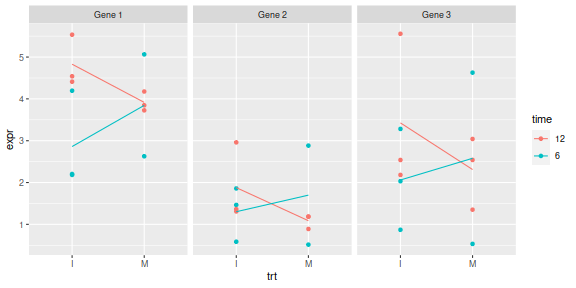
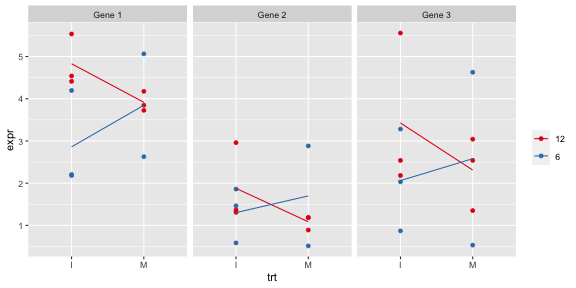
2.1-tidyr

diff --git a/slides/2.1-tidyr/index.html b/slides/2.1-tidyr/index.html
@@ -3,8 +3,8 @@
   <head>
     <title>Tidying your data</title>
     <meta charset="utf-8" />
-    <meta name="author" content="Di Cook (dicook@monash.edu, @visnut)   Heike Hofmann (heike.hofmann@gmail.com, @heike_hh)   Susan VanderPlas (susan.vanderplas@unl.edu, @srvanderplas)" />
-    <script src="index_files/header-attrs-2.9/header-attrs.js"></script>
+    <meta name="author" content="Di Cook (dicook@monash.edu, @visnut)   Heike Hofmann (heike.hofmann@gmail.com, @heike_hh)" />
+    <script src="index_files/header-attrs-2.14/header-attrs.js"></script>
     <link href="index_files/remark-css-0.0.1/default.css" rel="stylesheet" />
     <link href="index_files/countdown-0.3.5/countdown.css" rel="stylesheet" />
     <script src="index_files/countdown-0.3.5/countdown.js"></script>
@@ -14,10 +14,18 @@
     <textarea id="source">
 class: center, middle, inverse, title-slide
 
+.title[
 # Tidying your data
-## SISBID 2021 <br> <a href="https://github.com/dicook/SISBID" class="uri">https://github.com/dicook/SISBID</a>
-### Di Cook (<a href="mailto:dicook@monash.edu" class="email">dicook@monash.edu</a>, <span class="citation">@visnut</span>) <br> Heike Hofmann (<a href="mailto:heike.hofmann@gmail.com" class="email">heike.hofmann@gmail.com</a>, <span class="citation">@heike_hh</span>) <br> Susan VanderPlas (<a href="mailto:susan.vanderplas@unl.edu" class="email">susan.vanderplas@unl.edu</a>, <span class="citation">@srvanderplas</span>)
-### 07/21-23/2021
+]
+.subtitle[
+## SISBID 2022 <br> <a href="https://github.com/dicook/SISBID" class="uri">https://github.com/dicook/SISBID</a>
+]
+.author[
+### Di Cook (<a href="mailto:dicook@monash.edu" class="email">dicook@monash.edu</a>, <span class="citation">@visnut</span>) <br> Heike Hofmann (<a href="mailto:heike.hofmann@gmail.com" class="email">heike.hofmann@gmail.com</a>, <span class="citation">@heike_hh</span>)
+]
+.date[
+### 07/27-29/2022
+]
 
 ---
 
@@ -57,15 +65,24 @@ tb %&gt;%                                  # first we get the tb data
   arrange(desc(cases))                  # then we sort countries to show highest number new cases first
 ```
 
+Note that the new base R pipe `|&gt;` can mostly substitute for the magrittr pipe. A good explanation can be found [here](https://towardsdatascience.com/understanding-the-native-r-pipe-98dea6d8b61b).
+
 ---
+.pull-left[
+&lt;img src="https://github.com/allisonhorst/stats-illustrations/raw/master/rstats-artwork/tidydata_2.jpg" width="100%"&gt;
+
+Artist: [Allison Horst](https://github.com/allisonhorst/stats-illustrations)
+
+]
+
+.pull-right[
 # What is **tidy data**? 
 
 - What do we expect tidy data to look like?
 - Couple of exercises to look closer at what we find in practice 
 
-&lt;img src="https://github.com/allisonhorst/stats-illustrations/raw/master/rstats-artwork/tidydata_2.jpg" width="500"&gt;
+]
 
-Artist: [Allison Horst](https://github.com/allisonhorst/stats-illustrations)
 ---
 class: inverse middle 
 # Your turn 1
@@ -74,7 +91,7 @@ What are the variables?
 
 
 ```
-# A tibble: 6 x 4
+# A tibble: 6 × 4
   Inst                     AvNumPubs AvNumCits PctCompletion
   &lt;chr&gt;                        &lt;dbl&gt;     &lt;dbl&gt;         &lt;dbl&gt;
 1 ARIZONA STATE UNIVERSITY      0.9       1.57          31.7
@@ -95,14 +112,16 @@ What's in the column names of this data? What are the experimental units? What a
 
 
 ```
-# A tibble: 3 x 12
-  id     `WI-6.R1` `WI-6.R2` `WI-6.R4` `WM-6.R1` `WM-6.R2` `WI-12.R1`
-  &lt;chr&gt;      &lt;dbl&gt;     &lt;dbl&gt;     &lt;dbl&gt;     &lt;dbl&gt;     &lt;dbl&gt;      &lt;dbl&gt;
-1 Gene 1      2.18     2.20       4.20     2.63       5.06       4.54
-2 Gene 2      1.46     0.585      1.86     0.515      2.88       1.36
-3 Gene 3      2.03     0.870      3.28     0.533      4.63       2.18
-# … with 5 more variables: WI-12.R2 &lt;dbl&gt;, WI-12.R4 &lt;dbl&gt;,
-#   WM-12.R1 &lt;dbl&gt;, WM-12.R2 &lt;dbl&gt;, WM-12.R4 &lt;dbl&gt;
+# A tibble: 3 × 12
+  id     WI-6.…¹ WI-6.…² WI-6.…³ WM-6.…⁴ WM-6.…⁵ WI-12…⁶ WI-12…⁷ WI-12…⁸ WM-12…⁹
+  &lt;chr&gt;    &lt;dbl&gt;   &lt;dbl&gt;   &lt;dbl&gt;   &lt;dbl&gt;   &lt;dbl&gt;   &lt;dbl&gt;   &lt;dbl&gt;   &lt;dbl&gt;   &lt;dbl&gt;
+1 Gene 1    2.18   2.20     4.20   2.63     5.06    4.54    5.53    4.41    3.85
+2 Gene 2    1.46   0.585    1.86   0.515    2.88    1.36    2.96    1.31    1.18
+3 Gene 3    2.03   0.870    3.28   0.533    4.63    2.18    5.56    2.54    2.54
+# … with 2 more variables: `WM-12.R2` &lt;dbl&gt;, `WM-12.R4` &lt;dbl&gt;, and abbreviated
+#   variable names ¹`WI-6.R1`, ²`WI-6.R2`, ³`WI-6.R4`, ⁴`WM-6.R1`, ⁵`WM-6.R2`,
+#   ⁶`WI-12.R1`, ⁷`WI-12.R2`, ⁸`WI-12.R4`, ⁹`WM-12.R1`
+# ℹ Use `colnames()` to see all variable names
 ```
 
 
@@ -115,20 +134,20 @@ What are the variables? What are the records?
 
 
 ```
-           V1   V2 V3   V4  V5  V9 V13 V17 V21 V25 V29 V33 V37 V41 V45
-1 ASN00086282 1970  7 TMAX 141 124 113 123 148 149 139 153 123 108 119
-2 ASN00086282 1970  7 TMIN  80  63  36  57  69  47  84  78  49  42  48
-3 ASN00086282 1970  7 PRCP   3  30   0   0  36   3   0   0  10  23   3
-4 ASN00086282 1970  8 TMAX 145 128 150 122 109 112 116 142 166 127 117
-5 ASN00086282 1970  8 TMIN  50  61  75  67  41  51  48  -7  56  62  47
-6 ASN00086282 1970  8 PRCP   0  66   0  53  13   3   8   0   0   0   3
-  V49 V53 V57 V61 V65 V69 V73 V77 V81 V85 V89 V93 V97
-1 112 126 112 115 133 134 126 104 143 141 134 117 142
-2  56  51  36  44  39  40  58  15  33  51  74  39  66
-3   0   5   0   0   0   0   0   8   0  18   0   0   0
-4 127 159 143 114  65 113 125 129 147 161 168 178 161
-5  33  67  84  11  41  18  50  22  28  74  94  73  88
-6   5   0   0  64   3  99  36   8   0   0   0   8  36
+           V1   V2 V3   V4  V5  V9 V13 V17 V21 V25 V29 V33 V37 V41 V45 V49 V53
+1 ASN00086282 1970  7 TMAX 141 124 113 123 148 149 139 153 123 108 119 112 126
+2 ASN00086282 1970  7 TMIN  80  63  36  57  69  47  84  78  49  42  48  56  51
+3 ASN00086282 1970  7 PRCP   3  30   0   0  36   3   0   0  10  23   3   0   5
+4 ASN00086282 1970  8 TMAX 145 128 150 122 109 112 116 142 166 127 117 127 159
+5 ASN00086282 1970  8 TMIN  50  61  75  67  41  51  48  -7  56  62  47  33  67
+6 ASN00086282 1970  8 PRCP   0  66   0  53  13   3   8   0   0   0   3   5   0
+  V57 V61 V65 V69 V73 V77 V81 V85 V89 V93 V97
+1 112 115 133 134 126 104 143 141 134 117 142
+2  36  44  39  40  58  15  33  51  74  39  66
+3   0   0   0   0   0   8   0  18   0   0   0
+4 143 114  65 113 125 129 147 161 168 178 161
+5  84  11  41  18  50  22  28  74  94  73  88
+6   0  64   3  99  36   8   0   0   0   8  36
 ```
 
 
@@ -141,18 +160,19 @@ What are the variables? What are the experimental units?
 
 
 ```
-# A tibble: 6 x 22
-  iso2   year  m_04 m_514 m_014 m_1524 m_2534 m_3544 m_4554 m_5564  m_65
-  &lt;chr&gt; &lt;dbl&gt; &lt;dbl&gt; &lt;dbl&gt; &lt;dbl&gt;  &lt;dbl&gt;  &lt;dbl&gt;  &lt;dbl&gt;  &lt;dbl&gt;  &lt;dbl&gt; &lt;dbl&gt;
-1 ZW     2003    NA    NA   133    874   3048   2228    981    367   205
-2 ZW     2004    NA    NA   187    833   2908   2298   1056    366   198
-3 ZW     2005    NA    NA   210    837   2264   1855    762    295   656
-4 ZW     2006    NA    NA   215    736   2391   1939    896    348   199
-5 ZW     2007     6   132   138    500   3693      0    716    292   153
-6 ZW     2008    NA    NA   127    614      0   3316    704    263   185
-# … with 11 more variables: m_u &lt;dbl&gt;, f_04 &lt;dbl&gt;, f_514 &lt;dbl&gt;,
-#   f_014 &lt;dbl&gt;, f_1524 &lt;dbl&gt;, f_2534 &lt;dbl&gt;, f_3544 &lt;dbl&gt;, f_4554 &lt;dbl&gt;,
-#   f_5564 &lt;dbl&gt;, f_65 &lt;dbl&gt;, f_u &lt;dbl&gt;
+# A tibble: 6 × 22
+  iso2   year  m_04 m_514 m_014 m_1524 m_2534 m_3544 m_4554 m_5564  m_65   m_u
+  &lt;chr&gt; &lt;dbl&gt; &lt;dbl&gt; &lt;dbl&gt; &lt;dbl&gt;  &lt;dbl&gt;  &lt;dbl&gt;  &lt;dbl&gt;  &lt;dbl&gt;  &lt;dbl&gt; &lt;dbl&gt; &lt;dbl&gt;
+1 ZW     2003    NA    NA   133    874   3048   2228    981    367   205    NA
+2 ZW     2004    NA    NA   187    833   2908   2298   1056    366   198    NA
+3 ZW     2005    NA    NA   210    837   2264   1855    762    295   656    NA
+4 ZW     2006    NA    NA   215    736   2391   1939    896    348   199    NA
+5 ZW     2007     6   132   138    500   3693      0    716    292   153    NA
+6 ZW     2008    NA    NA   127    614      0   3316    704    263   185     0
+# … with 10 more variables: f_04 &lt;dbl&gt;, f_514 &lt;dbl&gt;, f_014 &lt;dbl&gt;, f_1524 &lt;dbl&gt;,
+#   f_2534 &lt;dbl&gt;, f_3544 &lt;dbl&gt;, f_4554 &lt;dbl&gt;, f_5564 &lt;dbl&gt;, f_65 &lt;dbl&gt;,
+#   f_u &lt;dbl&gt;
+# ℹ Use `colnames()` to see all variable names
 ```
 
 ---
@@ -179,7 +199,7 @@ class: inverse middle
 
 
 ```
-# A tibble: 4 x 9
+# A tibble: 4 × 9
   time  treatment subject   rep potato buttery grassy rancid painty
   &lt;fct&gt; &lt;fct&gt;     &lt;fct&gt;   &lt;dbl&gt;  &lt;dbl&gt;   &lt;dbl&gt;  &lt;dbl&gt;  &lt;dbl&gt;  &lt;dbl&gt;
 1 1     1         3           1    2.9     0      0      0      5.5
@@ -210,12 +230,15 @@ There are various features of messy data that one can observe in practice. Here 
 - Wider forms are common for analysis
 
 ---
-
-![](lego.png)
+background-image: url(lego.png)
+background-size: 100%
+background-position: 50% 5%
 
 ---
+background-image: url(playmobile.png)
+background-size: 100%
+background-position: 50% 5%
 
-![](playmobile.png)
 
 ---
 # Tidy verbs
@@ -226,7 +249,7 @@ There are various features of messy data that one can observe in practice. Here 
 - `nest`/`unnest`: working with list variables
 
 ---
-# Gather the data 
+# Pivot to long form
   
 `pivot_longer(data, cols, names_to = "name", values_to = "value", ...)`
 
@@ -245,7 +268,7 @@ dframe
 1  1  2.5   45
 2  2  4.6   35
 dframe %&gt;% pivot_longer(trtA:trtB, names_to="treatment", values_to="outcome")
-# A tibble: 4 x 3
+# A tibble: 4 × 3
      id treatment outcome
   &lt;int&gt; &lt;chr&gt;       &lt;dbl&gt;
 1     1 trtA          2.5
@@ -282,21 +305,22 @@ read_csv(here::here("data/TB_notifications_2019-07-01.csv")) %&gt;%
   select(country, iso3, year, starts_with("new_sp_")) %&gt;%
   na.omit() %&gt;%
   head()
-# A tibble: 6 x 23
-  country     iso3   year new_sp_m04 new_sp_m514 new_sp_m014 new_sp_m1524
-  &lt;chr&gt;       &lt;chr&gt; &lt;dbl&gt;      &lt;dbl&gt;       &lt;dbl&gt;       &lt;dbl&gt;        &lt;dbl&gt;
-1 Afghanistan AFG    2010          4         193         197          986
-2 Afghanistan AFG    2012          0         188         188         1116
-3 Albania     ALB    2005          0           0           0           26
-4 Albania     ALB    2006          1           4           5           24
-5 Albania     ALB    2007          0           0           0           19
-6 Albania     ALB    2009          0           0           0           22
-# … with 16 more variables: new_sp_m2534 &lt;dbl&gt;, new_sp_m3544 &lt;dbl&gt;,
-#   new_sp_m4554 &lt;dbl&gt;, new_sp_m5564 &lt;dbl&gt;, new_sp_m65 &lt;dbl&gt;,
-#   new_sp_mu &lt;dbl&gt;, new_sp_f04 &lt;dbl&gt;, new_sp_f514 &lt;dbl&gt;,
-#   new_sp_f014 &lt;dbl&gt;, new_sp_f1524 &lt;dbl&gt;, new_sp_f2534 &lt;dbl&gt;,
-#   new_sp_f3544 &lt;dbl&gt;, new_sp_f4554 &lt;dbl&gt;, new_sp_f5564 &lt;dbl&gt;,
-#   new_sp_f65 &lt;dbl&gt;, new_sp_fu &lt;dbl&gt;
+# A tibble: 6 × 23
+  country    iso3   year new_s…¹ new_s…² new_s…³ new_s…⁴ new_s…⁵ new_s…⁶ new_s…⁷
+  &lt;chr&gt;      &lt;chr&gt; &lt;dbl&gt;   &lt;dbl&gt;   &lt;dbl&gt;   &lt;dbl&gt;   &lt;dbl&gt;   &lt;dbl&gt;   &lt;dbl&gt;   &lt;dbl&gt;
+1 Afghanist… AFG    2010       4     193     197     986     819     491     490
+2 Afghanist… AFG    2012       0     188     188    1116     801     586     521
+3 Albania    ALB    2005       0       0       0      26      21      16      31
+4 Albania    ALB    2006       1       4       5      24      19      22      21
+5 Albania    ALB    2007       0       0       0      19      13      16      24
+6 Albania    ALB    2009       0       0       0      22      21      12      24
+# … with 13 more variables: new_sp_m5564 &lt;dbl&gt;, new_sp_m65 &lt;dbl&gt;,
+#   new_sp_mu &lt;dbl&gt;, new_sp_f04 &lt;dbl&gt;, new_sp_f514 &lt;dbl&gt;, new_sp_f014 &lt;dbl&gt;,
+#   new_sp_f1524 &lt;dbl&gt;, new_sp_f2534 &lt;dbl&gt;, new_sp_f3544 &lt;dbl&gt;,
+#   new_sp_f4554 &lt;dbl&gt;, new_sp_f5564 &lt;dbl&gt;, new_sp_f65 &lt;dbl&gt;, new_sp_fu &lt;dbl&gt;,
+#   and abbreviated variable names ¹new_sp_m04, ²new_sp_m514, ³new_sp_m014,
+#   ⁴new_sp_m1524, ⁵new_sp_m2534, ⁶new_sp_m3544, ⁷new_sp_m4554
+# ℹ Use `colnames()` to see all variable names
 ```
 
 
@@ -304,7 +328,7 @@ read_csv(here::here("data/TB_notifications_2019-07-01.csv")) %&gt;%
 
 
 ---
-# TB notifications (gather)
+# TB notifications (pivot_long)
   
 create two new variables: variable `name` (contains all variable names starting with `new_sp_`) and variable `value` with the values:
   
@@ -314,7 +338,7 @@ tb1 &lt;- read_csv(here::here("data/TB_notifications_2019-07-01.csv")) %&gt;%
   select(country, iso3, year, starts_with("new_sp_")) %&gt;%
   pivot_longer(starts_with("new_sp_")) 
 tb1 %&gt;% na.omit() %&gt;% head()
-# A tibble: 6 x 5
+# A tibble: 6 × 5
   country     iso3   year name         value
   &lt;chr&gt;       &lt;chr&gt; &lt;dbl&gt; &lt;chr&gt;        &lt;dbl&gt;
 1 Afghanistan AFG    1997 new_sp_m014      0
@@ -349,7 +373,7 @@ Work on `name`:
 tb2 &lt;- tb1 %&gt;% 
   separate(name, sep = "_", into=c("foo_new", "foo_sp", "sexage")) 
 tb2 %&gt;% na.omit() %&gt;% head()
-# A tibble: 6 x 7
+# A tibble: 6 × 7
   country     iso3   year foo_new foo_sp sexage value
   &lt;chr&gt;       &lt;chr&gt; &lt;dbl&gt; &lt;chr&gt;   &lt;chr&gt;  &lt;chr&gt;  &lt;dbl&gt;
 1 Afghanistan AFG    1997 new     sp     m014       0
@@ -374,7 +398,7 @@ tb3 &lt;- tb2 %&gt;% select(-starts_with("foo")) %&gt;%
          age=substr(sexage, 2, length(sexage))) %&gt;%
   select(-sexage)
 tb3 %&gt;% na.omit() %&gt;% head()
-# A tibble: 6 x 6
+# A tibble: 6 × 6
   country     iso3   year value sex   age  
   &lt;chr&gt;       &lt;chr&gt; &lt;dbl&gt; &lt;dbl&gt; &lt;chr&gt; &lt;chr&gt;
 1 Afghanistan AFG    1997     0 m     014  
@@ -409,7 +433,7 @@ Produce the data frame called `gtidy` as shown below:
 
 ```r
 head(gtidy)
-# A tibble: 6 x 5
+# A tibble: 6 × 5
   id     trt   time  rep    expr
   &lt;chr&gt;  &lt;chr&gt; &lt;chr&gt; &lt;chr&gt; &lt;dbl&gt;
 1 Gene 1 I     6     1      2.18
@@ -421,7 +445,7 @@ head(gtidy)
 ```
 
 Break into zoom rooms, clock is ticking 😄
-<div class="countdown" id="timer_60facc4e" style="right:0;bottom:0;" data-warnwhen="0">
+<div class="countdown" id="timer_62dbd464" style="right:0;bottom:0;" data-warnwhen="0">
 <code class="countdown-time"><span class="countdown-digits minutes">10</span><span class="countdown-digits colon">:</span><span class="countdown-digits seconds">00</span></code>
 </div>
 
@@ -438,7 +462,8 @@ gtidy %&gt;%
   ggplot(aes(x = trt, y = expr, colour=time)) +
   geom_point() +
   geom_line(data = gmean, aes(group = time)) +
-  facet_wrap(~id)
+  facet_wrap(~id) +
+  scale_colour_brewer("", palette="Set1")
 ```
 ]
 .pull-right[
@@ -505,6 +530,19 @@ if (window.HTMLWidgets) slideshow.on('afterShowSlide', function (slide) {
     deleted = true;
   });
 })();
+// add `data-at-shortcutkeys` attribute to <body> to resolve conflicts with JAWS
+// screen reader (see PR #262)
+(function(d) {
+  let res = {};
+  d.querySelectorAll('.remark-help-content table tr').forEach(tr => {
+    const t = tr.querySelector('td:nth-child(2)').innerText;
+    tr.querySelectorAll('td:first-child .key').forEach(key => {
+      const k = key.innerText;
+      if (/^[a-z]$/.test(k)) res[k] = t;  // must be a single letter (key)
+    });
+  });
+  d.body.setAttribute('data-at-shortcutkeys', JSON.stringify(res));
+})(document);
 (function() {
   "use strict"
   // Replace <script> tags in slides area to make them executable

diff --git a/slides/1.1-ggplot/index.html b/slides/1.1-ggplot/index.html
@@ -135,7 +135,7 @@ Go to menti.com and enter code 7692 1506
 - There appears to be a structural change around 2008. Either a recording change or a policy change?
 - Missing information for 1998 # no longer true
 - Cannot compare counts for male/female using stacked bars, maybe fill to 100% to focus on proportion
-- Colour scheme is not color blind proof, switch to colorbrewer Dark2 palette
+- Colour scheme is not color blind proof, switch to better palette
 - Axis labels, and tick marks?
 
 
@@ -290,7 +290,7 @@ Make sure you can make all the TB plots just shown. If you have extra time, try 
 - Facet by gender, and make line plots of counts of age. 
 - Show the points only, and overlay a linear model fit. 
 
-<div class="countdown" id="timer_62da81d1" style="right:0;bottom:0;" data-warnwhen="0">
+<div class="countdown" id="timer_62dbd735" style="right:0;bottom:0;" data-warnwhen="0">
 <code class="countdown-time"><span class="countdown-digits minutes">07</span><span class="countdown-digits colon">:</span><span class="countdown-digits seconds">00</span></code>
 </div>
 
